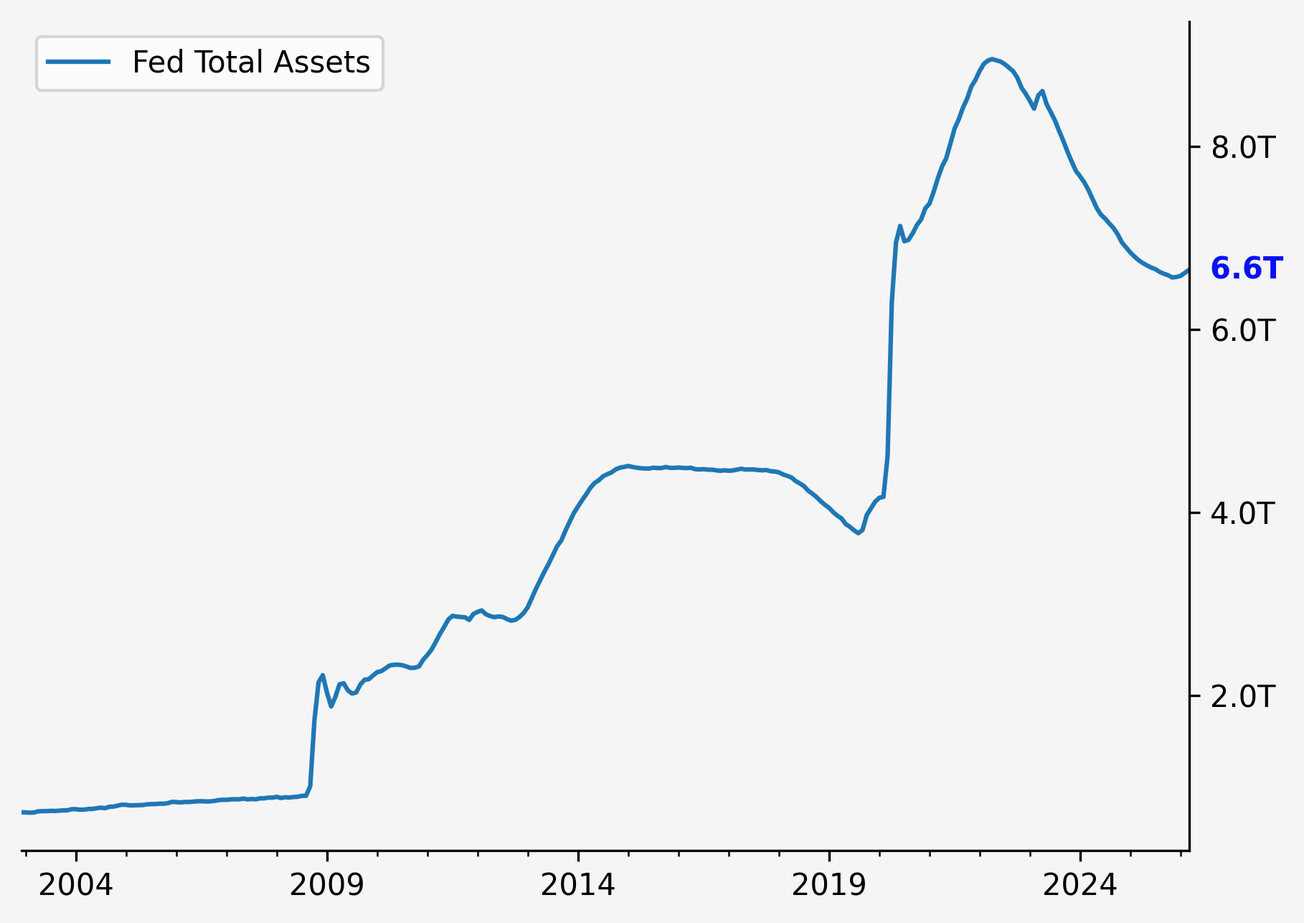
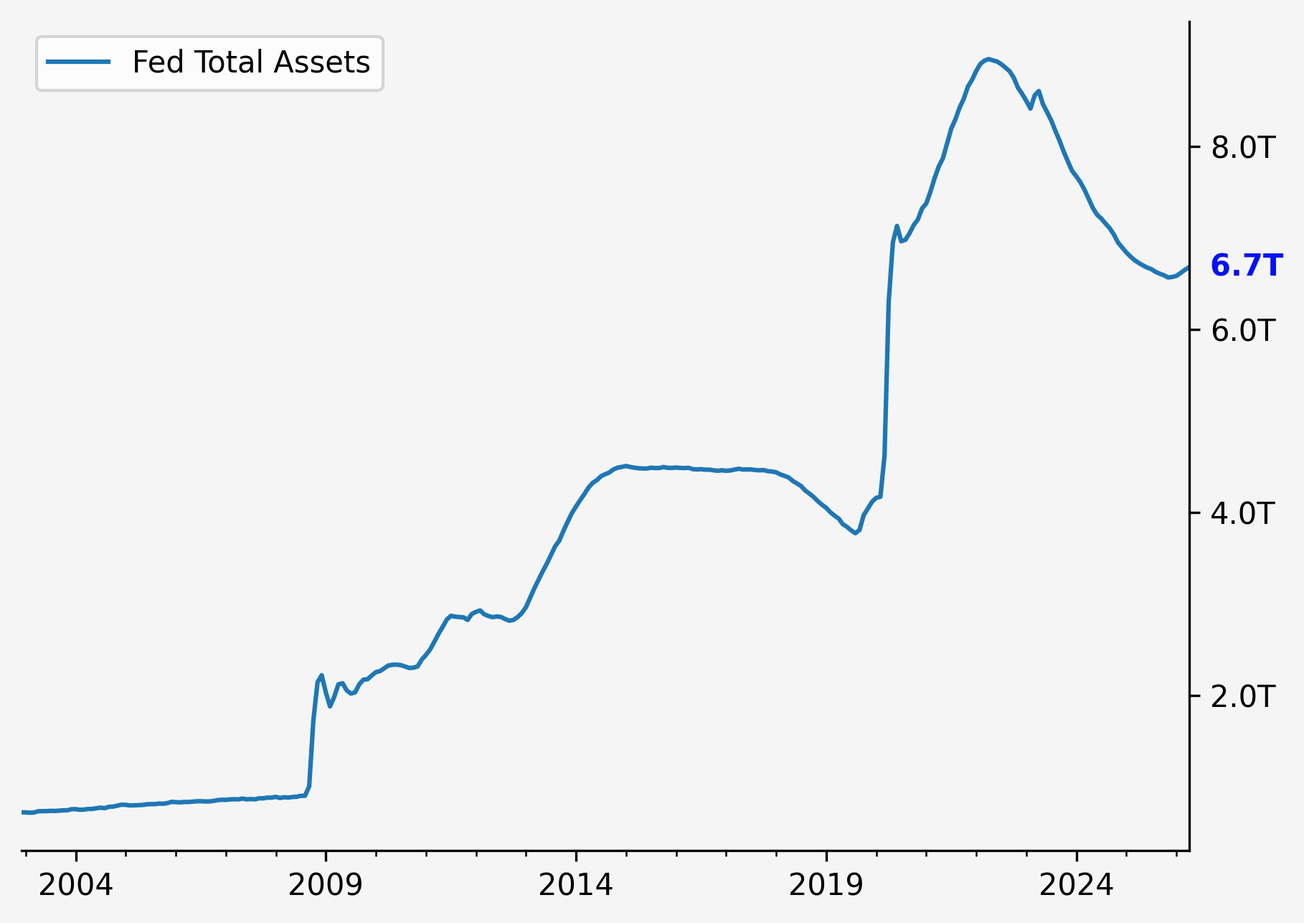
deploy: 0811ef3fcf824df71aa4f2bb929835165758ac6a

diff --git a/archive/report_2026-04-03.html b/archive/report_2026-04-03.html
@@ -248,7 +248,7 @@ ul.task-list li input[type="checkbox"] {
     <nav class="navbar navbar-expand-lg " data-bs-theme="dark">
       <div class="navbar-container container-fluid">
       <div class="navbar-brand-container mx-auto">
-    <a class="navbar-brand" href="./index.html">
+    <a class="navbar-brand" href="../index.html">
     <span class="navbar-title">Market Research</span>
     </a>
   </div>
@@ -259,7 +259,7 @@ ul.task-list li input[type="checkbox"] {
           <div class="collapse navbar-collapse" id="navbarCollapse">
             <ul class="navbar-nav navbar-nav-scroll me-auto">
   <li class="nav-item">
-    <a class="nav-link" href="./index.html"> 
+    <a class="nav-link" href="../index.html"> 
 <span class="menu-text">Home</span></a>
   </li>  
   <li class="nav-item dropdown ">
@@ -268,17 +268,17 @@ ul.task-list li input[type="checkbox"] {
     </a>
     <ul class="dropdown-menu" aria-labelledby="nav-menu-reports">    
         <li>
-    <a class="dropdown-item" href="./report-latest.html">
+    <a class="dropdown-item" href="../report-latest.html">
  <span class="dropdown-text">Latest Report</span></a>
   </li>  
         <li>
-    <a class="dropdown-item" href="./archive/">
+    <a class="dropdown-item" href="./">
  <span class="dropdown-text">Archive</span></a>
   </li>  
     </ul>
   </li>
   <li class="nav-item">
-    <a class="nav-link" href="./about.html"> 
+    <a class="nav-link" href="../about.html"> 
 <span class="menu-text">About</span></a>
   </li>  
 </ul>
@@ -319,13 +319,7 @@ ul.task-list li input[type="checkbox"] {
     <h2 id="toc-title">On this page</h2>
    
   <ul>
-  <li><a href="#growth-at-a-crossroads-navigating-the-april-2026-market-inflection" id="toc-growth-at-a-crossroads-navigating-the-april-2026-market-inflection" class="nav-link active" data-scroll-target="#growth-at-a-crossroads-navigating-the-april-2026-market-inflection">Growth at a Crossroads: Navigating the April 2026 Market Inflection</a>
-  <ul class="collapse">
-  <li><a href="#the-u.s.-growth-stock-landscape-historical-parallels-and-current-reality" id="toc-the-u.s.-growth-stock-landscape-historical-parallels-and-current-reality" class="nav-link" data-scroll-target="#the-u.s.-growth-stock-landscape-historical-parallels-and-current-reality">The U.S. Growth Stock Landscape: Historical Parallels and Current Reality</a></li>
-  <li><a href="#risks-that-could-derail-the-growth-trade" id="toc-risks-that-could-derail-the-growth-trade" class="nav-link" data-scroll-target="#risks-that-could-derail-the-growth-trade">Risks That Could Derail the Growth Trade</a></li>
-  <li><a href="#opportunities-within-the-turbulence" id="toc-opportunities-within-the-turbulence" class="nav-link" data-scroll-target="#opportunities-within-the-turbulence">Opportunities Within the Turbulence</a></li>
-  <li><a href="#positioning-for-the-path-ahead" id="toc-positioning-for-the-path-ahead" class="nav-link" data-scroll-target="#positioning-for-the-path-ahead">Positioning for the Path Ahead</a></li>
-  </ul></li>
+  <li><a href="#growth-stocks-at-the-crossroads-navigating-a-late-cycle-landscape-in-april-2026" id="toc-growth-stocks-at-the-crossroads-navigating-a-late-cycle-landscape-in-april-2026" class="nav-link active" data-scroll-target="#growth-stocks-at-the-crossroads-navigating-a-late-cycle-landscape-in-april-2026">Growth Stocks at the Crossroads: Navigating a Late-Cycle Landscape in April 2026</a></li>
   </ul>
 </nav>
     </div>
@@ -352,56 +346,119 @@ ul.task-list li input[type="checkbox"] {
 </header>
 
 
-<section id="growth-at-a-crossroads-navigating-the-april-2026-market-inflection" class="level1">
-<h1>Growth at a Crossroads: Navigating the April 2026 Market Inflection</h1>
-<p>Global equity markets have shown resilience through Q1 2026 despite elevated geopolitical tensions, with the MSCI ACWI ex-US gaining 4.4% year-to-date as of early March while grappling with Middle East volatility and oil prices exceeding $100 per barrel. The S&amp;P 500 traded around 6,870 in late February 2026 before extending its rebound in late March, though volatility metrics tell a more cautious story—the VIX jumped 41.5% year-to-date to 21.2 as of March 5, 2026. Global bond yields remain elevated with the 10-year U.S. Treasury at 4.1%, while international markets display significant valuation dispersion: MSCI Japan trades at 17.93x NTM P/E versus MSCI Emerging Markets at 12.69x. Gold has surged to approximately $4,765 per ounce by April 2026, reflecting safe-haven demand amid stagflation concerns from energy price shocks. The IMF projects global growth at 3.3% for 2026, but warns that technology expectation revaluation and geopolitical escalation remain key downside risks. <img src="charts/MSCI World Equity Index.png" class="img-fluid" alt="MSCI World Equity Index"></p>
-<section id="the-u.s.-growth-stock-landscape-historical-parallels-and-current-reality" class="level2">
-<h2 class="anchored" data-anchor-id="the-u.s.-growth-stock-landscape-historical-parallels-and-current-reality">The U.S. Growth Stock Landscape: Historical Parallels and Current Reality</h2>
-<p>The current U.S. equity market setup warrants careful examination through a historical lens. The S&amp;P 500 trailing P/E ratio sits at approximately 23.4x as of early 2026, which is elevated relative to the long-term average but notably below the 2000 dot-com peak where multiples exceeded 30x. The Nasdaq-100 has delivered 23.3% over the trailing twelve months through March 2026, demonstrating continued momentum in large-cap technology despite the volatile backdrop. What distinguishes this cycle from 2000 is the macroeconomic context: inflation has moderated to approximately 2.4% year-over-year by early 2026, compared to the deflationary pressures that emerged post-2000, and the Federal Reserve has maintained a more measured policy stance with the target rate at 3.75% as of December 2025 rather than the aggressive tightening that preceded the dot-com collapse. <img src="charts/S&amp;P 500 PE Ratio.png" class="img-fluid" alt="S&amp;P 500 PE Ratio"></p>
-<p>The yield curve environment presents another critical comparison point. The 2-year Treasury yield sits around 3.71% while the 10-year trades near 4.24% as of March 2026, producing a modestly positive spread of approximately 53 basis points. This contrasts sharply with the deeply inverted curve of 2000-2001 that preceded recession, and more closely resembles the 1998-1999 period when the Fed successfully engineered a soft landing. However, the BofA High Yield Option-Adjusted Spread at approximately 3.46% in early 2026 exceeds the sub-3% levels characteristic of late-cycle credit euphoria, suggesting bond investors are pricing in more uncertainty than equity valuations currently reflect. <img src="charts/US 2Y and 10Y Treasury Yields and Spread.png" class="img-fluid" alt="US 2Y and 10Y Treasury Yields and Spread"></p>
-<p>Energy prices introduce a 1970s-style complication to this otherwise late-1990s-like setup. Brent crude at $101.92 per barrel in April 2026 approaches levels that triggered stagflation in 1973-1974, though today’s economic structure is far less energy-intensive. The VIX at 25.16 in March 2026 reflects genuine uncertainty rather than the complacency of 1999, when volatility remained suppressed well into the bubble’s final months. This elevated volatility, combined with the S&amp;P 500 Growth index trading at 23.44x forward earnings versus 19.11x for Value as of March 2026, creates a valuation gap that demands selectivity. <img src="charts/Cboe Volatility Index (VIX).png" class="img-fluid" alt="Cboe Volatility Index (VIX)"></p>
-<p>The Federal Reserve’s balance sheet provides additional context for liquidity conditions. After peaking above $8.9 trillion in 2022-2023, Fed assets have been gradually declining through quantitative tightening, reaching approximately $6.65 trillion by early 2026. This represents a meaningful withdrawal of liquidity compared to the 2020-2021 expansion period, yet the pace has been measured enough to avoid the abrupt tightening that triggered the 2018 volatility spike. Unemployment at 4.4% in early 2026 remains near historical lows, providing consumer support, though household debt service ratios have crept higher from post-GFC troughs. <img src="charts/Federal Reserve Total Assets.png" class="img-fluid" alt="Federal Reserve Total Assets"></p>
-</section>
-<section id="risks-that-could-derail-the-growth-trade" class="level2">
-<h2 class="anchored" data-anchor-id="risks-that-could-derail-the-growth-trade">Risks That Could Derail the Growth Trade</h2>
-<ul>
-<li><p><strong>Valuation Compression Risk</strong>: The S&amp;P 500 trailing P/E near 23.4x in early 2026 leaves limited margin for error if earnings growth disappoints. A reversion toward the 10-year average of approximately 19x would imply roughly 18-20% downside for the broad index, with growth stocks facing disproportionate pressure given their richer multiples. This mirrors the 2000-2002 experience where multiple compression, not earnings collapse, drove the initial decline.</p></li>
-<li><p><strong>Energy-Driven Stagflation Risk</strong>: Brent crude exceeding $100/barrel in early 2026 poses an underappreciated threat to growth valuations. If geopolitical escalation in the Middle East pushes oil toward $120-130, inflation could reaccelerate above 3-4%, forcing the Fed to pause or reverse its easing cycle. Growth stocks, which derive more value from distant cash flows, suffer most when discount rates rise unexpectedly. The 1973-1974 and 1979-1980 periods demonstrate how energy shocks can truncate expansion cycles.</p></li>
-<li><p><strong>Credit Spread Widening</strong>: The BofA High Yield spread at 3.46% in early 2026 has room to expand toward 5-6% if recession risk materializes. A sharp widening would signal stress in corporate refinancing markets, particularly for leveraged growth companies. The 2008 and 2020 episodes show how quickly credit conditions can deteriorate once spreads breach key thresholds.</p></li>
-<li><p><strong>Geopolitical Contagion</strong>: Middle East tensions have already impacted market sentiment in late March 2026, with equity indices falling on escalation news. A broader conflict threatening Strait of Hormuz flows could trigger risk-off flows across all asset classes, with growth stocks typically experiencing larger drawdowns during flight-to-safety episodes. The VIX spike to 25+ in March 2026 demonstrates markets are already pricing elevated tail risk.</p></li>
-</ul>
+<section id="growth-stocks-at-the-crossroads-navigating-a-late-cycle-landscape-in-april-2026" class="level1">
+<h1>Growth Stocks at the Crossroads: Navigating a Late-Cycle Landscape in April 2026</h1>
+<p>Global markets entered 2026 facing significant headwinds, with the Iran conflict in Q1 triggering an oil price spike that reverberated through equity and bond markets. The MSCI World Index sits at 4,316.09 as of April 2026, up from 4,258.30 in January, though volatility remains elevated with the VIX at 23.87 as of April 2026 compared to its 5-year average of 19.1. Global yields have stabilized with the 10-year U.S. Treasury at 4.32% as of April 2026, while Brent crude surged to $109.05 per barrel in April 2026 from much lower levels in late 2025. The IMF projects global growth at 3.3% for 2026, though inflation remains sticky in the U.S. at 2.4% year-over-year as of February 2026 <a href="https://www.imf.org/en/publications/weo/issues/2026/01/19/world-economic-outlook-update-january-2026?cid=sm-com-x-WEOET2026003">imf.org</a>. Equity valuations remain stretched globally, with technology-heavy indices showing particular vulnerability to rate sensitivity <a href="https://www.nasdaq.com/docs/global-markets-dashboard-march-2026">nasdaq.com</a>.</p>
+<div class="quarto-figure quarto-figure-center">
+<figure class="figure">
+<p><img src="charts/MSCI World Equity Index.png" class="img-fluid figure-img"></p>
+<figcaption>MSCI World Equity Index</figcaption>
+</figure>
+</div>
+<p>The U.S. growth stock landscape presents a complex picture that demands careful historical comparison. The S&amp;P 500 closed at 6,582.69 as of April 2026, with a trailing P/E ratio of 28.21—levels we haven’t sustained since the late 1990s dot-com peak. The Nasdaq-100 at 24,045.53 as of April 2026 reflects continued investor appetite for technology exposure, though the 28.21 P/E ratio suggests limited margin for error. What concerns me most is the similarity to the 2000 cycle: we’re seeing elevated valuations combined with moderating GDP growth of 0.7% in Q4 2025, inflation that proved stickier than expected, and a Fed that has been cutting rates gradually from a 5.5% peak down to 3.75% by December 2025.</p>
+<div class="quarto-figure quarto-figure-center">
+<figure class="figure">
+<p><img src="charts/Performance of Major US Stock Indices.png" class="img-fluid figure-img"></p>
+<figcaption>Performance of Major US Stock Indices</figcaption>
+</figure>
+</div>
+<div class="quarto-figure quarto-figure-center">
+<figure class="figure">
+<p><img src="charts/S&amp;P 500 PE Ratio.png" class="img-fluid figure-img"></p>
+<figcaption>S&amp;P 500 PE Ratio</figcaption>
+</figure>
+</div>
+<p>The macroeconomic backdrop echoes several historical periods that warrant attention. Current inflation at 2.4% as of February 2026 resembles the late 1990s environment where core inflation remained contained but equity valuations expanded dramatically on growth expectations. However, unemployment at 4.3% as of March 2026 is higher than the sub-4% levels we saw in 1999-2000, suggesting labor market softening that could precede slower consumer spending. The 2Y/10Y yield spread at approximately 52 basis points (4.32% minus 3.80% as of April 2026) is no longer inverted, which historically signals we’re past the most recession-prone period, though the 0.7% GDP growth in Q4 2025 raises questions about economic momentum.</p>
 <div class="quarto-figure quarto-figure-center">
 <figure class="figure">
 <p><img src="charts/US Inflation Rate (YoY).png" class="img-fluid figure-img"></p>
 <figcaption>US Inflation Rate (YoY)</figcaption>
 </figure>
 </div>
-</section>
-<section id="opportunities-within-the-turbulence" class="level2">
-<h2 class="anchored" data-anchor-id="opportunities-within-the-turbulence">Opportunities Within the Turbulence</h2>
-<ul>
-<li><p><strong>Quality Growth at Reasonable Prices</strong>: Not all growth stocks trade at bubble multiples. The data shows S&amp;P 500 Value at 19.11x forward earnings versus Growth at 23.44x as of March 2026, indicating dispersion within the index itself. Companies with strong free cash flow, low debt, and visible earnings growth can withstand multiple compression better than speculative names. This echoes the 2001-2003 period where quality technology leaders recovered fastest after the dot-com crash.</p></li>
-<li><p><strong>Fed Pivot Optionality</strong>: With the Fed funds rate at 3.75% as of December 2025 and inflation near 2.4%, there is meaningful room for additional easing if growth slows. The Fed balance sheet at $6.65 trillion provides ammunition for liquidity support if needed. Growth stocks historically outperform during the first 12-18 months of easing cycles, as lower discount rates disproportionately benefit long-duration assets. The 1995-1998 and 2019-2021 periods offer relevant analogues.</p></li>
-<li><p><strong>Secular Technology Trends</strong>: Despite near-term volatility, structural drivers like AI infrastructure, cloud computing, and semiconductor demand remain intact. The PHLX Semiconductor index gained 71.9% over the trailing twelve months through early March 2026, demonstrating continued momentum in select areas. Thematic exposure through these trends can generate alpha even in a range-bound broader market, similar to how internet infrastructure stocks performed in 1997-1999 before the broader bubble peaked.</p></li>
-<li><p><strong>International Diversification</strong>: MSCI Emerging Markets trades at 12.69x forward earnings versus 21.30x for the S&amp;P 500 as of March 2026, representing a significant valuation discount. While emerging markets carry their own risks, the dispersion creates opportunity for patient capital willing to accept volatility in exchange for valuation support. This mirrors the early 2000s when international markets outperformed U.S. equities during the dot-com unwinding.</p></li>
-</ul>
+<div class="quarto-figure quarto-figure-center">
+<figure class="figure">
+<p><img src="charts/US Unemployment Rate.png" class="img-fluid figure-img"></p>
+<figcaption>US Unemployment Rate</figcaption>
+</figure>
+</div>
+<div class="quarto-figure quarto-figure-center">
+<figure class="figure">
+<p><img src="charts/US GDP Growth Rate (YoY).png" class="img-fluid figure-img"></p>
+<figcaption>US GDP Growth Rate (YoY)</figcaption>
+</figure>
+</div>
+<p>Credit conditions tell an important story about risk appetite. The BofA High Yield Option-Adjusted Spread at 3.17 as of April 2026 remains well below the crisis levels above 10% we witnessed in 2008 and 2020, suggesting credit markets aren’t pricing in imminent distress. However, this spread has widened from the sub-3% levels of 2023-2024, indicating growing caution among fixed income investors. Household debt service payments at 11.32% of disposable income as of Q4 2025 are manageable but trending upward from the 9-10% range of the early 2020s, which could constrain consumer spending power if employment weakens further.</p>
+<div class="quarto-figure quarto-figure-center">
+<figure class="figure">
+<p><img src="charts/ICE BofA Option-Adjusted Spreads.png" class="img-fluid figure-img"></p>
+<figcaption>ICE BofA Option-Adjusted Spreads</figcaption>
+</figure>
+</div>
+<div class="quarto-figure quarto-figure-center">
+<figure class="figure">
+<p><img src="charts/Household Debt Service Payments.png" class="img-fluid figure-img"></p>
+<figcaption>Household Debt Service Payments</figcaption>
+</figure>
+</div>
+<p>The Federal Reserve’s balance sheet at $6.67 trillion as of April 2026 represents significant quantitative tightening from the $8.9 trillion peak in 2022, yet remains substantially larger than pre-pandemic levels. This suggests financial conditions remain more accommodative than historical norms, which has supported equity valuations but creates vulnerability if the Fed cannot continue gradual rate cuts. The Fed funds target rate at 3.75% as of December 2025 provides less cushion than the 5%+ levels we had before previous easing cycles, limiting ammunition if economic conditions deteriorate sharply.</p>
+<div class="quarto-figure quarto-figure-center">
+<figure class="figure">
+<p><img src="charts/Federal Reserve Total Assets.png" class="img-fluid figure-img"></p>
+<figcaption>Federal Reserve Total Assets</figcaption>
+</figure>
+</div>
+<div class="quarto-figure quarto-figure-center">
+<figure class="figure">
+<p><img src="charts/Federal Funds Target Rate (Upper Limit).png" class="img-fluid figure-img"></p>
+<figcaption>Federal Funds Target Rate (Upper Limit)</figcaption>
+</figure>
+</div>
+<div class="quarto-figure quarto-figure-center">
+<figure class="figure">
+<p><img src="charts/US 2Y and 10Y Treasury Yields and Spread.png" class="img-fluid figure-img"></p>
+<figcaption>US 2Y and 10Y Treasury Yields and Spread</figcaption>
+</figure>
+</div>
+<p>Commodity prices signal ongoing inflation risks that complicate the growth stock thesis. Gold at $4,702.70 per ounce as of April 2026 has more than doubled from 2023 levels, reflecting both geopolitical uncertainty and currency debasement concerns. Brent oil at $109.05 per barrel in April 2026, driven by the Iran conflict, creates stagflationary pressures that historically compress growth stock multiples. This resembles the 1973-74 and 1979-80 periods where energy shocks coincided with equity market peaks, though today’s economy is significantly less oil-intensive than in those eras <a href="https://larryswedroe.substack.com/p/first-quarter-2026-economic-and-market">larryswedroe.substack.com</a>.</p>
+<div class="quarto-figure quarto-figure-center">
+<figure class="figure">
+<p><img src="charts/Gold Prices.png" class="img-fluid figure-img"></p>
+<figcaption>Gold Prices</figcaption>
+</figure>
+</div>
 <div class="quarto-figure quarto-figure-center">
 <figure class="figure">
 <p><img src="charts/Brent Oil Prices.png" class="img-fluid figure-img"></p>
 <figcaption>Brent Oil Prices</figcaption>
 </figure>
 </div>
-</section>
-<section id="positioning-for-the-path-ahead" class="level2">
-<h2 class="anchored" data-anchor-id="positioning-for-the-path-ahead">Positioning for the Path Ahead</h2>
-<p>The current environment demands a barbell approach: maintain core exposure to profitable growth leaders while preserving dry powder for volatility-driven opportunities. The 50-75% allocation range to U.S. growth stocks reflects confidence in secular technology trends balanced against elevated valuation risk. Within that allocation, emphasis should shift toward companies with positive free cash flow, manageable debt levels, and earnings visibility over the next 12-18 months.</p>
-<p>International diversification at 15-25% of equity exposure provides both valuation support and geopolitical risk mitigation. The MSCI ACWI ex-US index trading at significant discounts to U.S. counterparts offers a margin of safety that pure domestic growth portfolios lack. Fixed income allocation of 20-30% with emphasis on shorter-duration investment grade bonds hedges against the stagflation scenario while maintaining optionality to extend duration if the Fed accelerates easing.</p>
-<p>The key is remaining nimble. Volatility at 25+ VIX levels creates both risk and opportunity—if spreads widen sharply or oil spikes above $120, reducing growth exposure toward the lower end of the range becomes prudent. Conversely, if inflation continues moderating and the Fed signals additional cuts, increasing toward 75% capitalizes on the growth-friendly environment. The 1998-1999 analogue suggests we may have 12-18 months of favorable conditions before late-cycle pressures intensify, but the energy wildcard demands constant vigilance. <img src="charts/Performance of Major US Stock Indices.png" class="img-fluid" alt="Performance of Major US Stock Indices"></p>
-<p><strong>Suggested Portfolio Exposure: 50-75% U.S. Growth Stocks</strong></p>
-<p>This range balances the favorable Fed trajectory and secular technology trends against elevated valuations and geopolitical uncertainty. The midpoint of 60-65% suits investors with moderate risk tolerance, while those with longer time horizons can lean toward 70-75%. Maintain 20-25% cash or short-duration fixed income to capitalize on volatility spikes, and allocate 15-20% to international equities for diversification. Reassess quarterly based on inflation data, oil prices, and credit spread movements.</p>
+<p>Volatility metrics warrant close monitoring for growth investors. The VIX at 23.87 as of April 2026 is elevated above its long-term average of approximately 19-20, reflecting uncertainty around the geopolitical situation and economic trajectory. This level of volatility typically coincides with market transitions rather than steady bull markets, suggesting we should prepare for larger price swings in growth names that carry higher beta. The Q1 2026 volatility spike mirrors patterns we saw in 2000 and 2008 before more significant corrections materialized.</p>
+<div class="quarto-figure quarto-figure-center">
+<figure class="figure">
+<p><img src="charts/Cboe Volatility Index (VIX).png" class="img-fluid figure-img"></p>
+<figcaption>Cboe Volatility Index (VIX)</figcaption>
+</figure>
+</div>
+<div class="quarto-figure quarto-figure-center">
+<figure class="figure">
+<p><img src="charts/US Past Recessions.png" class="img-fluid figure-img"></p>
+<figcaption>US Past Recessions</figcaption>
+</figure>
+</div>
+<p><strong>Specific Risks for U.S. Growth Investors:</strong></p>
+<ul>
+<li><p><strong>Valuation Compression Risk</strong>: The S&amp;P 500 P/E of 28.21 as of April 2026 is approximately 48% above its 10-year historical average of roughly 19. If rates remain elevated around 4%+ on the 10-year Treasury while earnings growth moderates from the exceptional 2021-2024 period, we could see multiple compression of 20-30%, which would hit high-multiple growth stocks disproportionately hard. This mirrors the 2000-2002 experience where NASDAQ lost over 75% of its value as P/E ratios normalized.</p></li>
+<li><p><strong>Stagflation Scenario Risk</strong>: The combination of 2.4% inflation as of February 2026, 0.7% GDP growth in Q4 2025, and $109 oil prices creates a stagflationary backdrop that historically devastates growth stocks. The 1973-74 and 1979-80 periods saw growth stocks underperform value by 40%+ over multi-year periods as investors rotated into inflation hedges and cash-flowing businesses. With the Fed constrained by sticky inflation, rate cuts may be insufficient to support valuations if growth continues to decelerate.</p></li>
+</ul>
+<p><strong>Specific Opportunities for U.S. Growth Investors:</strong></p>
+<ul>
+<li><p><strong>Quality Growth at Reasonable Prices</strong>: Companies with strong free cash flow generation, modest debt levels, and P/E ratios below 25x present attractive entry points. The current environment rewards profitability over pure revenue growth, similar to the 2003-2007 period where quality compounders outperformed speculative growth names. Focus on businesses pricing power can maintain margins in a 2-3% inflation environment while still growing earnings at 10%+ annually.</p></li>
+<li><p><strong>AI and Productivity-Driven Winners</strong>: Despite the Nasdaq-100’s 23.3% LTM return as of March 2026, companies genuinely benefiting from AI-driven productivity gains may continue outperforming. The technology investment cycle resembles the early internet era (1995-1999) where infrastructure and application leaders created lasting value despite eventual market corrections. Companies demonstrating actual revenue growth from AI adoption rather than hype could compound at 15-20% annually even in a slower growth macro environment.</p></li>
+</ul>
+<p><strong>Portfolio Exposure Recommendation: 50-75%</strong></p>
+<p>I recommend maintaining 50-75% exposure to U.S. growth stocks at current levels. This positioning acknowledges the attractive long-term compounding potential of quality growth businesses while recognizing the elevated near-term risks from valuations, geopolitical uncertainty, and potential economic slowing. The 28.21 P/E ratio on the S&amp;P 500 as of April 2026 doesn’t provide a margin of safety for aggressive positioning, but completely exiting growth exposure would likely mean missing continued innovation-driven returns. Within this allocation, I’d emphasize companies with positive free cash flow, reasonable debt levels, and valuations below 25x forward earnings. Keep 25-35% in cash and short-duration bonds to deploy if volatility increases and valuations become more attractive. The Iran conflict and its impact on oil prices creates genuine uncertainty that warrants maintaining dry powder for potential opportunities in H2 2026 if markets dislocate further.</p>
 
 
-</section>
 </section>
 
 </main> <!-- /main -->

diff --git a/archive/index.html b/archive/index.html
@@ -349,6 +349,7 @@ ul.task-list li input[type="checkbox"] {
 <section id="past-reports" class="level1">
 <h1>Past Reports</h1>
 <ul>
+<li><a href="report_2026-04-03.html">report_2026-04-03</a></li>
 <li><a href="report_2026-04-01.html">report_2026-04-01</a></li>
 </ul>
 
